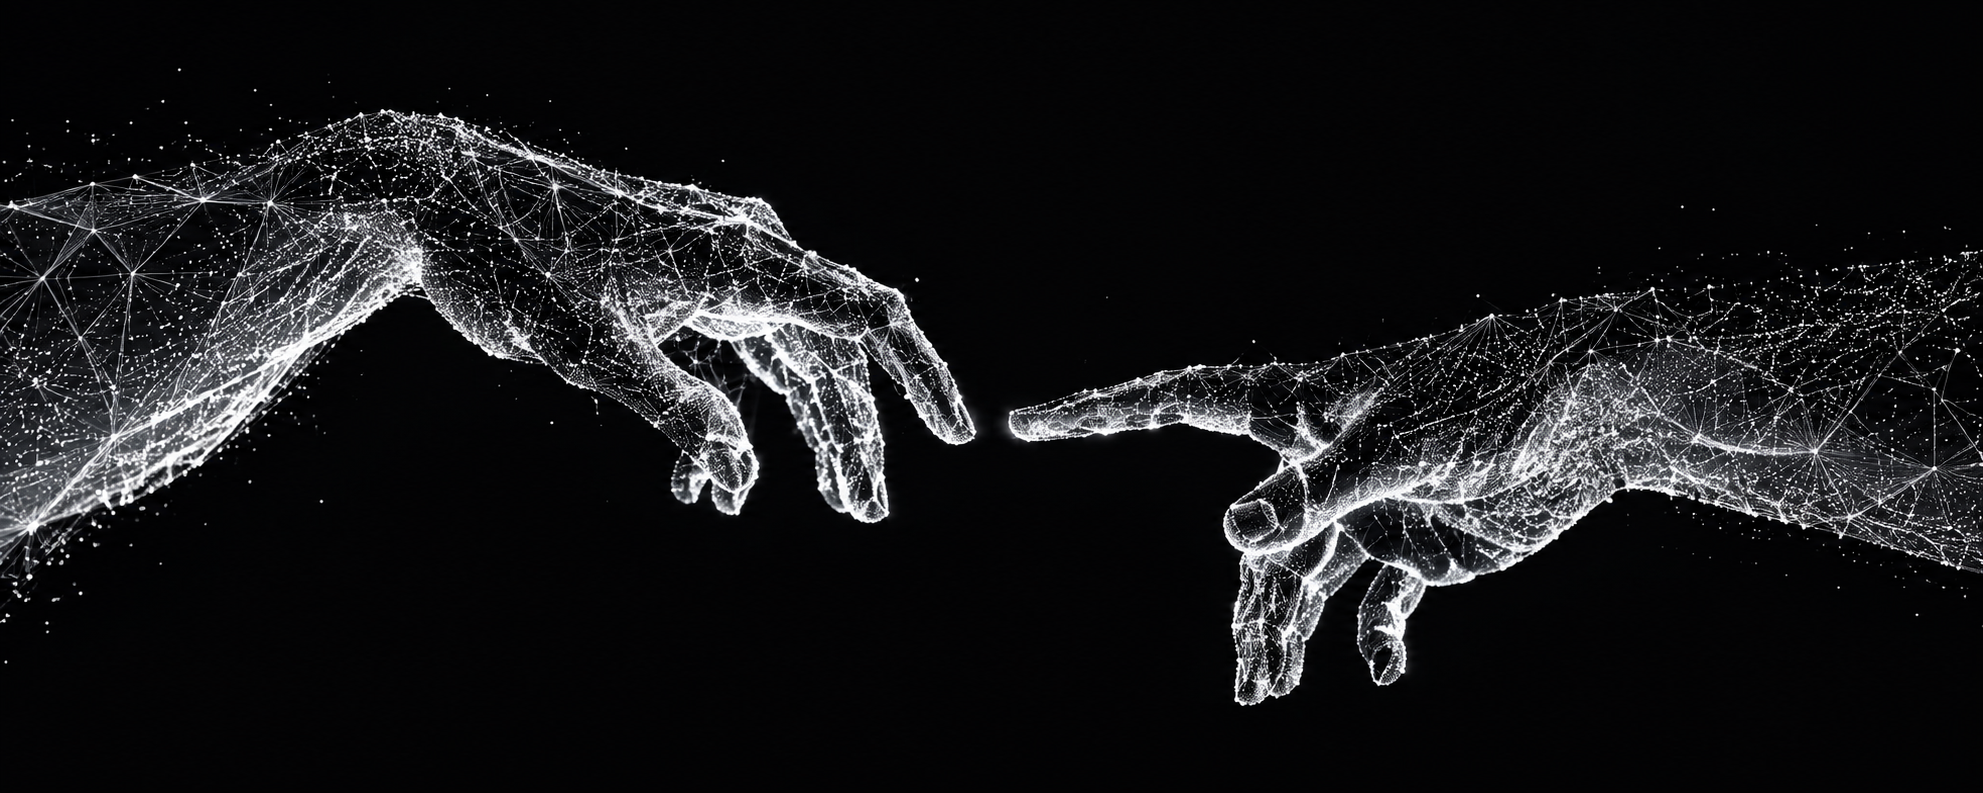
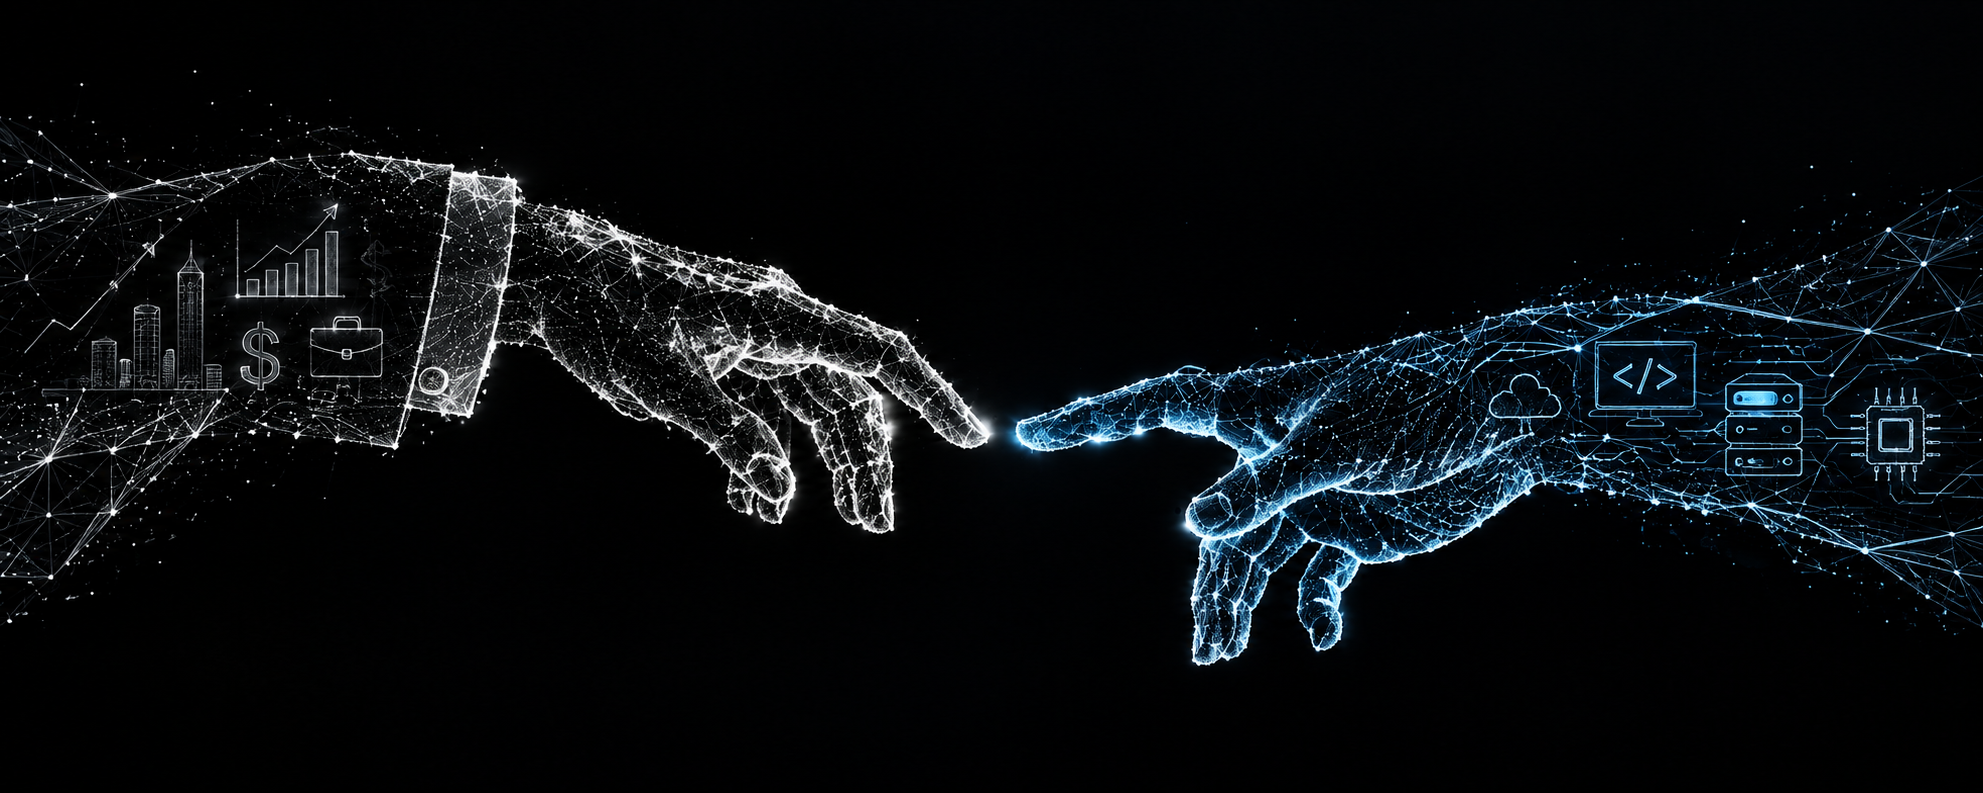
adding new img and activity graph
I'm replacing img and adding a graph

Changed region(s): [[0.0, 0.1211, 1.0, 0.9079], [0.0, 0.1513, 0.0308, 0.2119]]

diff --git a/README.md b/README.md
@@ -50,7 +50,7 @@
 
 <br>
 
-<h2 align="center">Contribution Graph</h2>
+<h2 align="center">Activity Graph</h2>
 <div align="center">
-  <img src="https://raw.githubusercontent.com/yawer284/yawer284/output/github-contribution-grid-snake-dark.svg" alt="Snake animation" />
+  <img src="https://github-readme-activity-graphkayan.vercel.app/graph?username=yawer284&theme=react-dark&area=true" width="100%" />
 </div>
